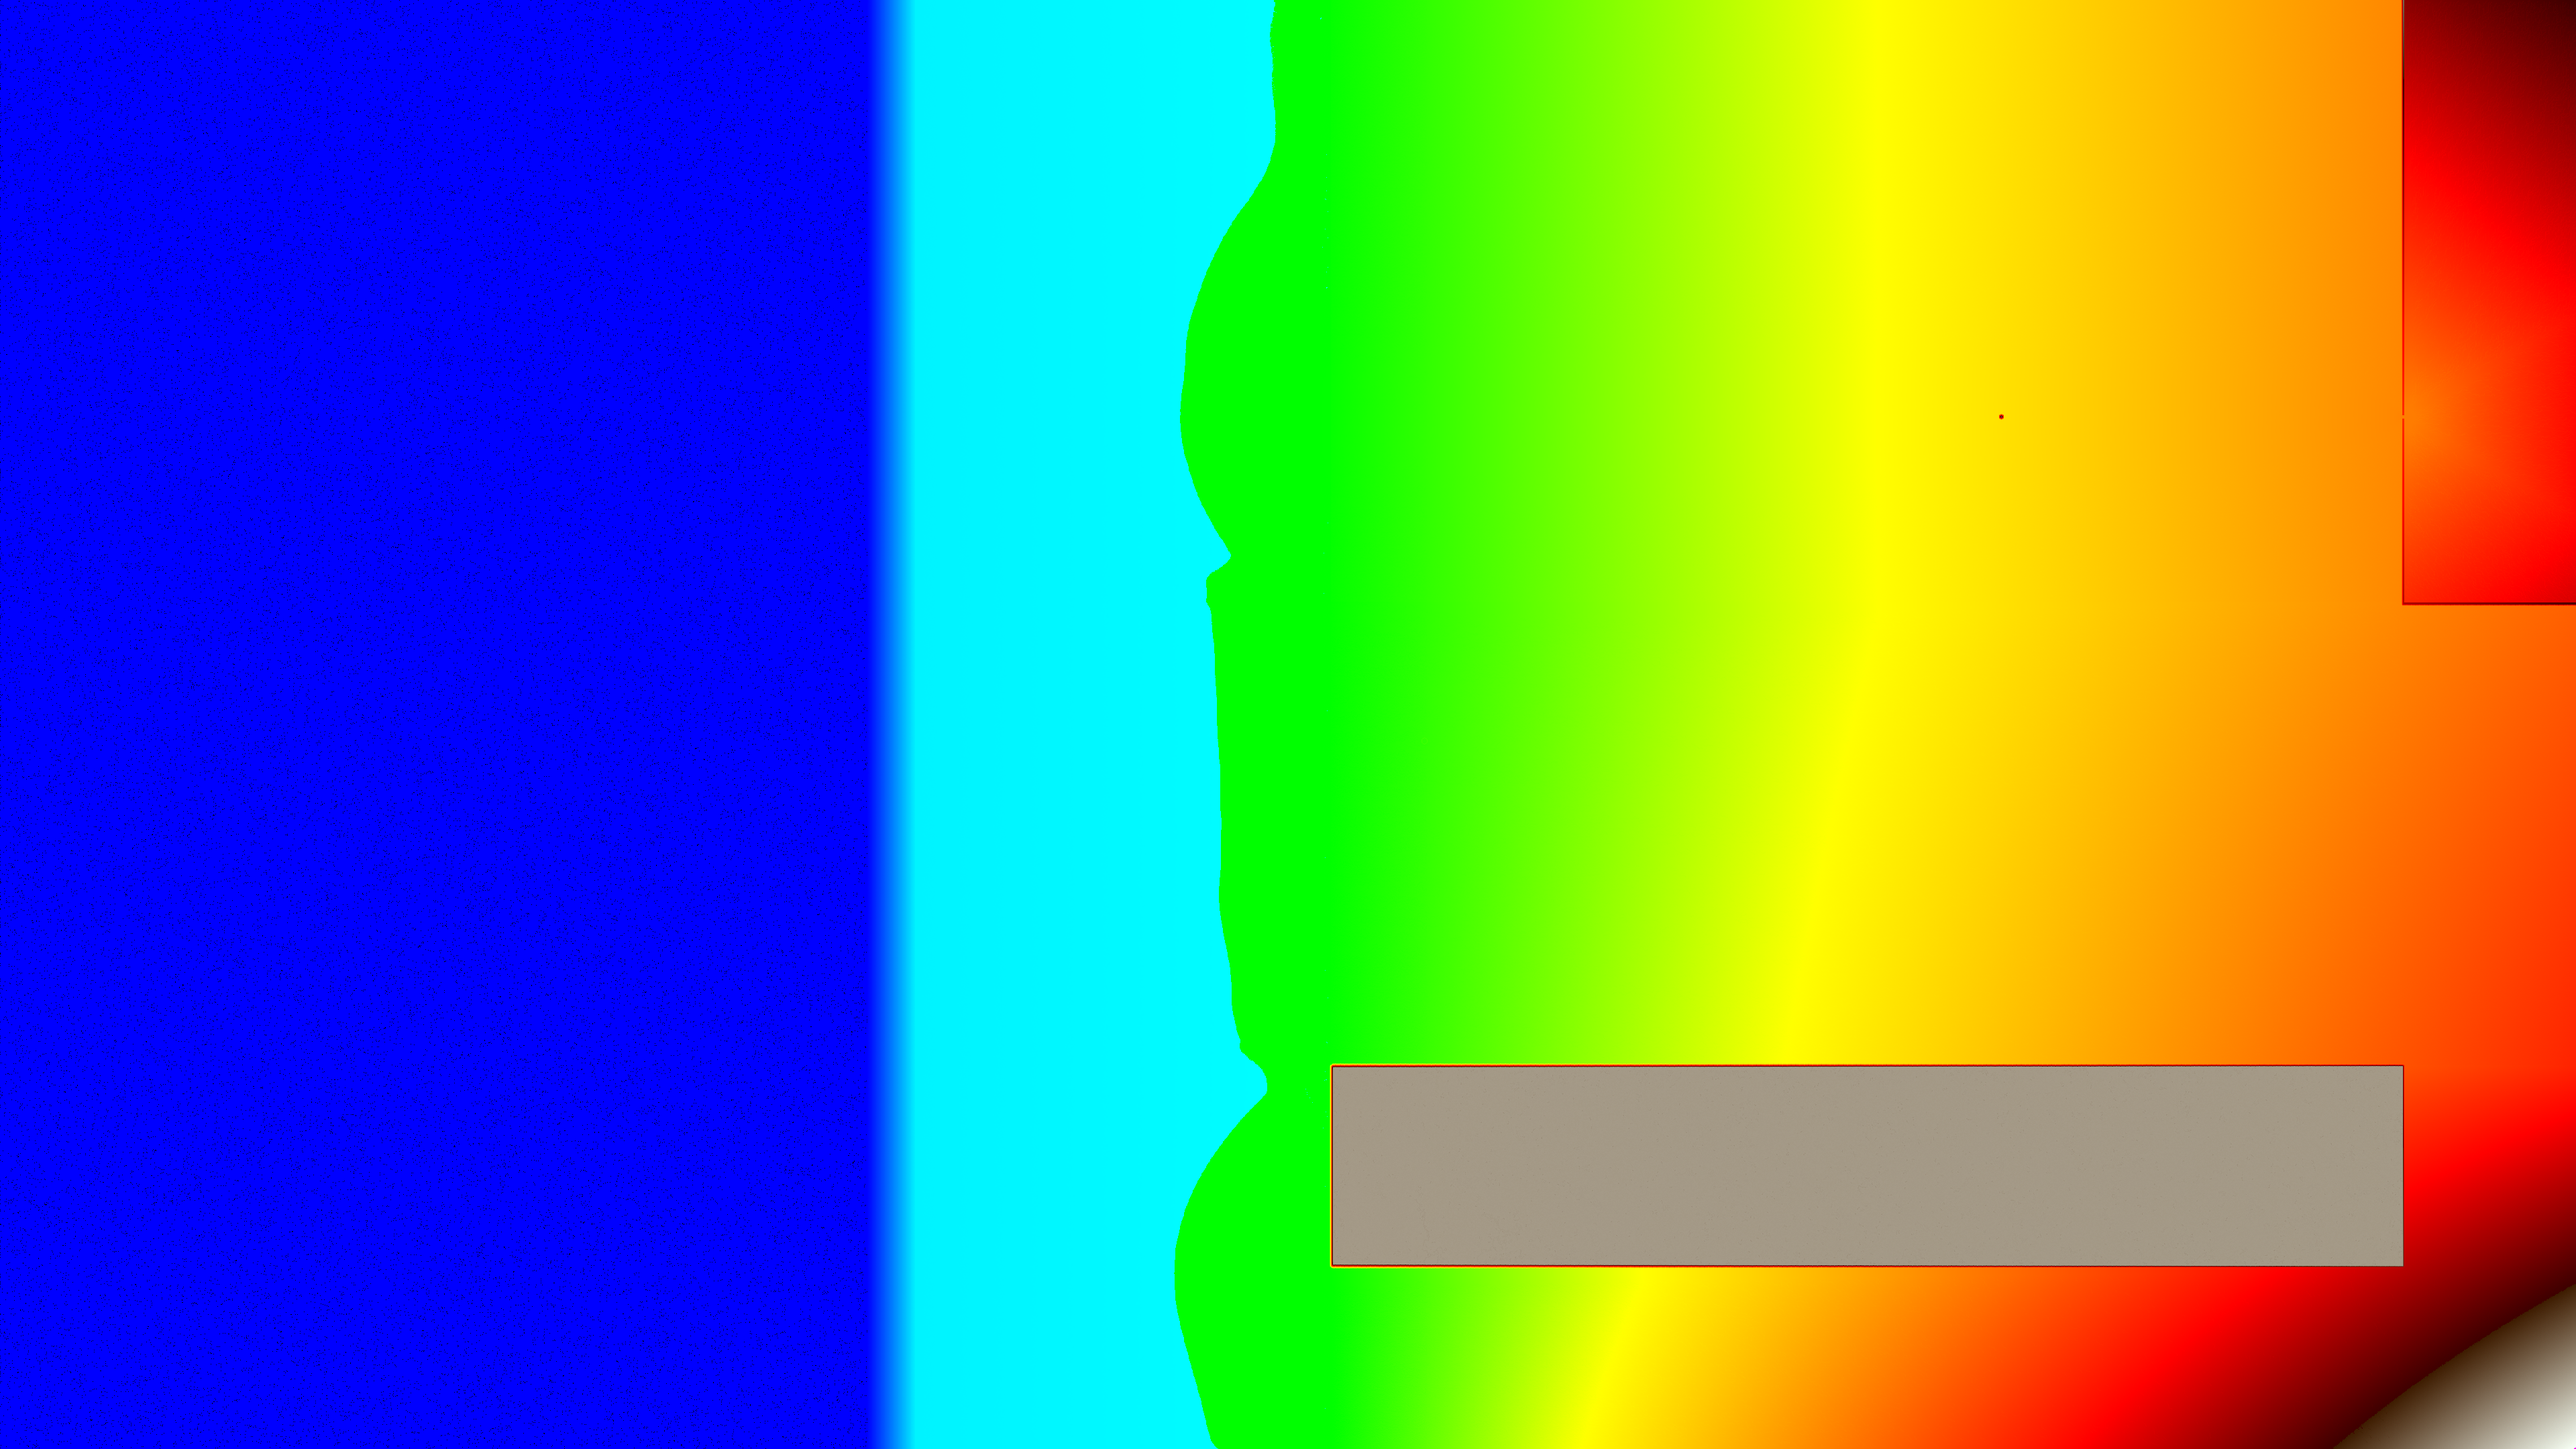
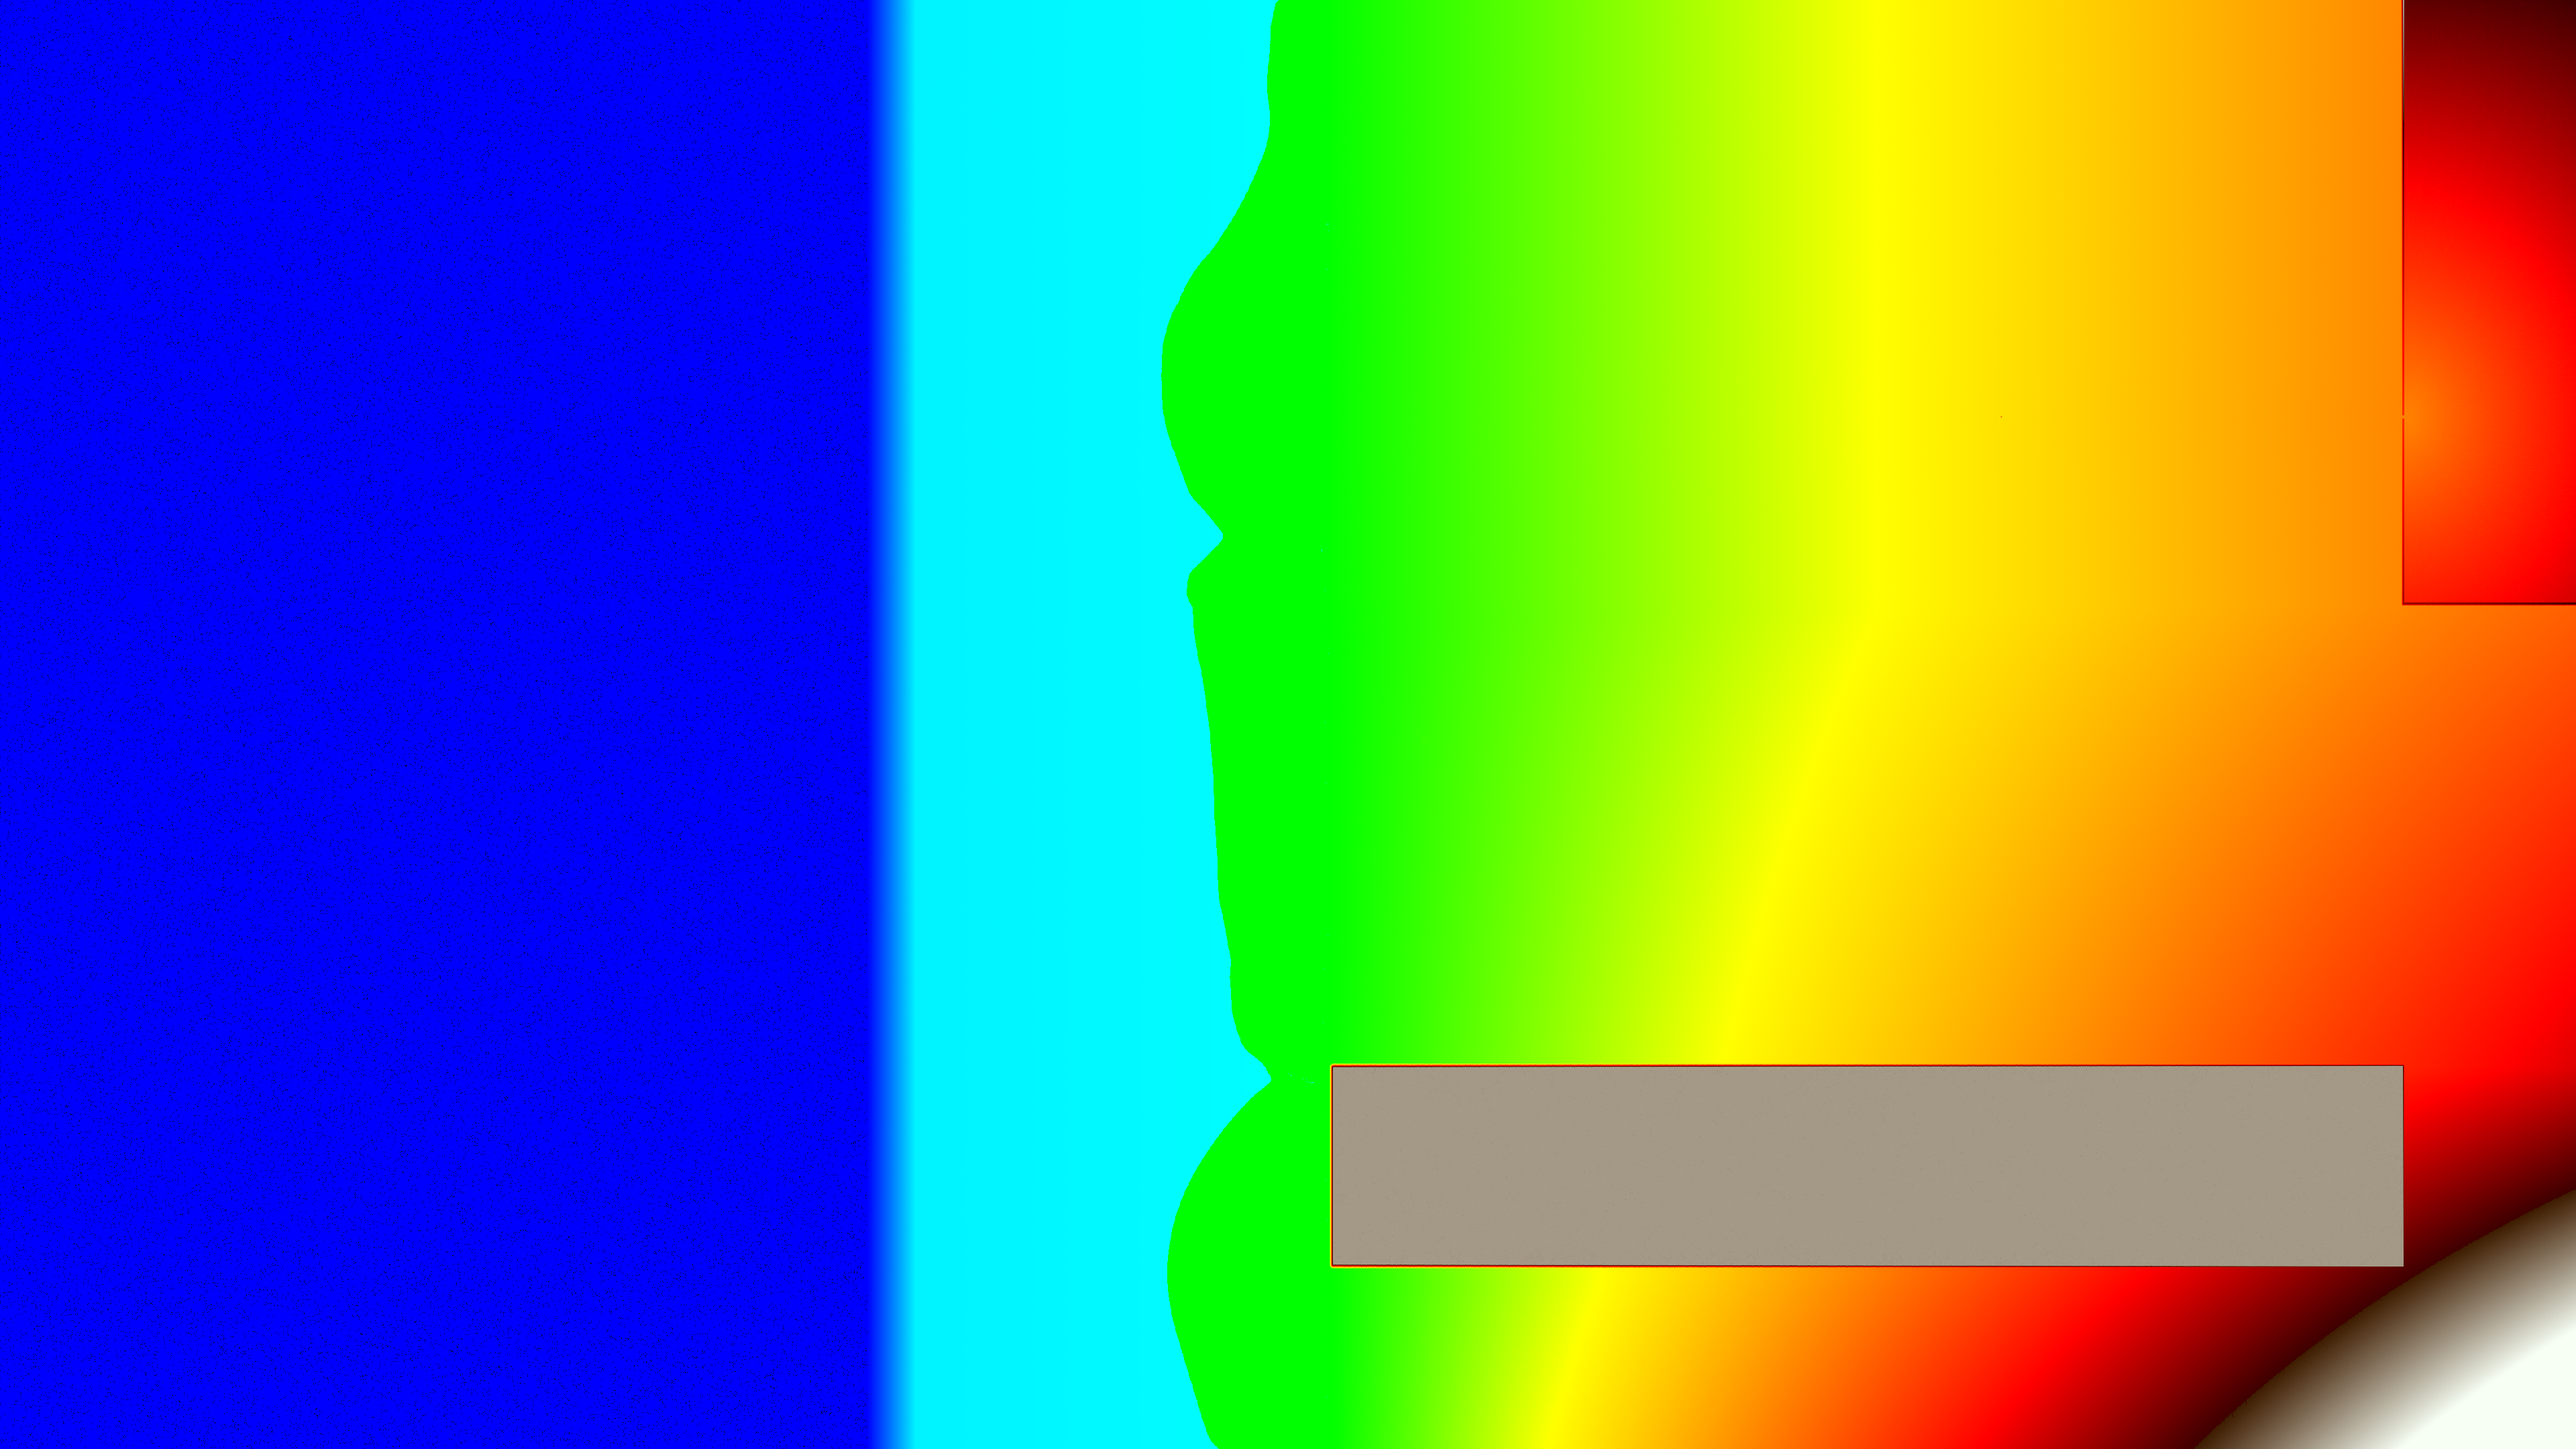
Tweaks to erosion experiment.

diff --git a/src/main.rs b/src/main.rs
@@ -133,6 +133,19 @@ fn hex_distance(x1: i32, y1: i32, x2: i32, y2: i32) -> i32 {
     }
 }
 
+fn hex_distance_pythagorean(x1: i32, y1: i32, x2: i32, y2: i32) -> i32 {
+    let dx = (x2 - x1) as f32 * HEX_FACTOR;
+    let mut dy = (y2 - y1) as f32;
+    if (x2 - x1) % 2 == 1 {
+        if x1 % 2 == 0 {
+            dy += 0.5;
+        } else {
+            dy -= 0.5;
+        }
+    }
+    return (dx.powi(2) + dy.powi(2)).sqrt() as i32;
+}
+
 fn elevation_to_color(elevation: f32) -> Rgb<u8> {
     let adjusted_sea_level = SEA_LEVEL - WATER_THRESHOLD;
     if elevation < adjusted_sea_level {
@@ -486,9 +499,10 @@ fn simulate_rainfall(
     );
 
     println!(
-        " water remaining on land: {:.2} ft-hexes, water remaining north: {:.2} ft-hexes, water remaining central: {:.2} ft-hexes, sediment in {:.1},  sediment out {:.1}",
+        " water remaining on land: {:.2} ft-hexes, water remaining north: {:.2} ft-hexes, water remaining NE basin: {:.2} ft-hexes,  water remaining central: {:.2} ft-hexes, sediment in {:.1},  sediment out {:.1}",
         water_remaining,
         water_remaining_north,
+        water_remaining_ne_basin,
         water_remaining_central,
         total_sediment_in,
         total_sediment_out
@@ -637,8 +651,8 @@ fn main() {
                 elevation += get_erruption_elevation(HEX_SIZE * 5.0);   
             } else if x > TOTAL_SEA_WIDTH + NORTH_DESERT_WIDTH - NE_BASIN_FRINGE && y <= NE_BASIN_HEIGHT + NE_BASIN_FRINGE {
                 // The northeast basin.
-                let distance_from_source = hex_distance(RIVER_SOURCE_X as i32, RIVER_Y as i32, x as i32, y as i32);
-                let max_possible_distance_from_source = hex_distance(RIVER_SOURCE_X as i32, RIVER_Y as i32, (WIDTH_HEXAGONS - 1) as i32, 0);
+                let distance_from_source = hex_distance_pythagorean(RIVER_SOURCE_X as i32, RIVER_Y as i32, x as i32, y as i32);
+                let max_possible_distance_from_source = hex_distance_pythagorean(RIVER_SOURCE_X as i32, RIVER_Y as i32, (WIDTH_HEXAGONS - 1) as i32, 0);
                 let factor = distance_from_source as f32 / max_possible_distance_from_source as f32;
                 elevation = (NE_BASIN_MAX_ELEVATION - RANDOM_ELEVATION_FACTOR) * factor + elevation * (1.0 - factor);
 
@@ -700,6 +714,9 @@ fn main() {
                 // default error case
                 _ => 0.0,
             };
+
+            // Not sure why I keep needing these little adjustments to avoid magenta
+            elevation = elevation.min(MAX_ELEVATION * 255.0 / 256.0);
 
             hex_map[y as usize].push(Hex {
                 coordinate: (x, y),

diff --git a/src/constants.rs b/src/constants.rs
@@ -71,9 +71,9 @@ pub const NORTH_DESERT_MAX_ELEVATION: f32 = 7_175.0;
 pub const NORTH_DESERT_INCREMENT: f32 = (NORTH_DESERT_MAX_ELEVATION - RANDOM_ELEVATION_FACTOR) / (NORTH_DESERT_WIDTH - NE_BASIN_FRINGE) as f32;
 pub const NE_BASIN_MAX_ELEVATION: f32 = 14_872.0;
 pub const CENTRAL_HIGHLAND_MAX_ELEVATION: f32 = 10_131.0;
-pub const CENTRAL_HIGHLAND_INCREMENT: f32 = (CENTRAL_HIGHLAND_MAX_ELEVATION - RANDOM_ELEVATION_FACTOR) / TOTAL_LAND_WIDTH as f32;
+pub const CENTRAL_HIGHLAND_INCREMENT: f32 = (CENTRAL_HIGHLAND_MAX_ELEVATION - RANDOM_ELEVATION_FACTOR) / MAIN_RIVER_WIDTH as f32;
 pub const SE_MOUNTAINS_MAX_ELEVATION: f32 = 18_510.0;
-pub const SE_MOUNTAINS_INCREMENT: f32 = (SE_MOUNTAINS_MAX_ELEVATION - RANDOM_ELEVATION_FACTOR) / TOTAL_LAND_WIDTH as f32;
+pub const SE_MOUNTAINS_INCREMENT: f32 = (SE_MOUNTAINS_MAX_ELEVATION - RANDOM_ELEVATION_FACTOR) / MAIN_RIVER_WIDTH as f32;
 pub const SW_RANGE_MAX_ELEVATION: f32 = 16_854.0;
 // TODO: Get rid of this when I'm sure I don't need it.
 pub const SW_RANGE_FRINGE: usize = 0;
@@ -103,7 +103,7 @@ pub const MAX_SLOPE: f32 = 1.00;
 pub const MAX_FLOW: f32 = (HEX_SIZE as f32) * MAX_SLOPE;
 // Current highest of all max elevation constants.
 pub const MAX_ELEVATION: f32 = SEA_LEVEL + SE_MOUNTAINS_MAX_ELEVATION;
-pub const LOG_ROUNDS: u32 = 1;
+pub const LOG_ROUNDS: u32 = 10;
 
 pub const BIG_VOLCANO_INITIAL_ELEVATION: f32 = HEX_SIZE * (5.0 + 6.0 * 4.0 + 12.0 * 3.0 + 18.0 * 2.0 + 24.0 * 1.0);
 pub const BIG_VOLCANO_X: usize = TOTAL_SEA_WIDTH + DELTA_SEED_WIDTH + (1_000.0 / HEX_FACTOR) as usize;
@@ -136,4 +136,5 @@ pub const TOTAL_SOUTH_RAIN: f32 = TOTAL_SOUTH_COAST_RAIN + (MAIN_RIVER_WIDTH * S
 
 pub const TOTAL_RAIN: f32 = (TOTAL_NORTH_RAIN + TOTAL_CENTRAL_RAIN + TOTAL_SOUTH_RAIN) * RAINFALL_FACTOR;
 pub const AVERAGE_RAIN: f32 = TOTAL_RAIN / ((TOTAL_LAND_WIDTH + TARGET_DELTA_WIDTH) * HEIGHT_PIXELS) as f32;
-pub const EVAPORATION_FACTOR: f32 = AVERAGE_RAIN / TARGET_MEAN_DEPTH_LAND;
+// The 0.63 is an empirically determined fudge factor.
+pub const EVAPORATION_FACTOR: f32 = AVERAGE_RAIN / TARGET_MEAN_DEPTH_LAND * 0.63;

diff --git a/README.md b/README.md
@@ -106,11 +106,11 @@ study" and Edmonds & Slingerland 2010, "Significant effect of sediment cohesion 
 
 Experimental Notes
 ------------------
-Round 99: water in 1.282  stored 1050952  mean depth 0.21 ft  max depth 1090.52 ft  wet 215765 (4.3%)  source elevation 7470.32 ft  westernmost land X 2021
-  min elevation: -10005.46 ft  max elevation: 18474.50 ft  time: 2252.2555236s
+Round 99: water in 1.282  stored 1390228  mean depth 0.27 ft  max depth 895.68 ft  wet 282894 (5.6%)  source elevation 7384.46 ft  westernmost land X 1999
+  min elevation: -10005.97 ft  max elevation: 18437.70 ft  time: 2190.4473504s
 Rainfall simulation complete – steps: 443400, total outflow to sea: 0.00 ft-hexes,
- westernmost land: 2020, westernmost land north: 2031, westernmost land south: 2076,
- water remaining on land: 1042841.00 ft-hexes, water remaining north: 326685.81 ft-hexes, water remaining central: 220345.70 ft-hexes, sediment in 0.0,  sediment out 0.0
+ westernmost land: 1998, westernmost land north: 1998, westernmost land south: 2047,
+ water remaining on land: 1398640.75 ft-hexes, water remaining north: 401142.44 ft-hexes, water remaining NE basin: 61127.00 ft-hexes,  water remaining central: 275293.62 ft-hexes, sediment in 0.0,  sediment out 0.0
 
 Performance optimization
 ------------------------
